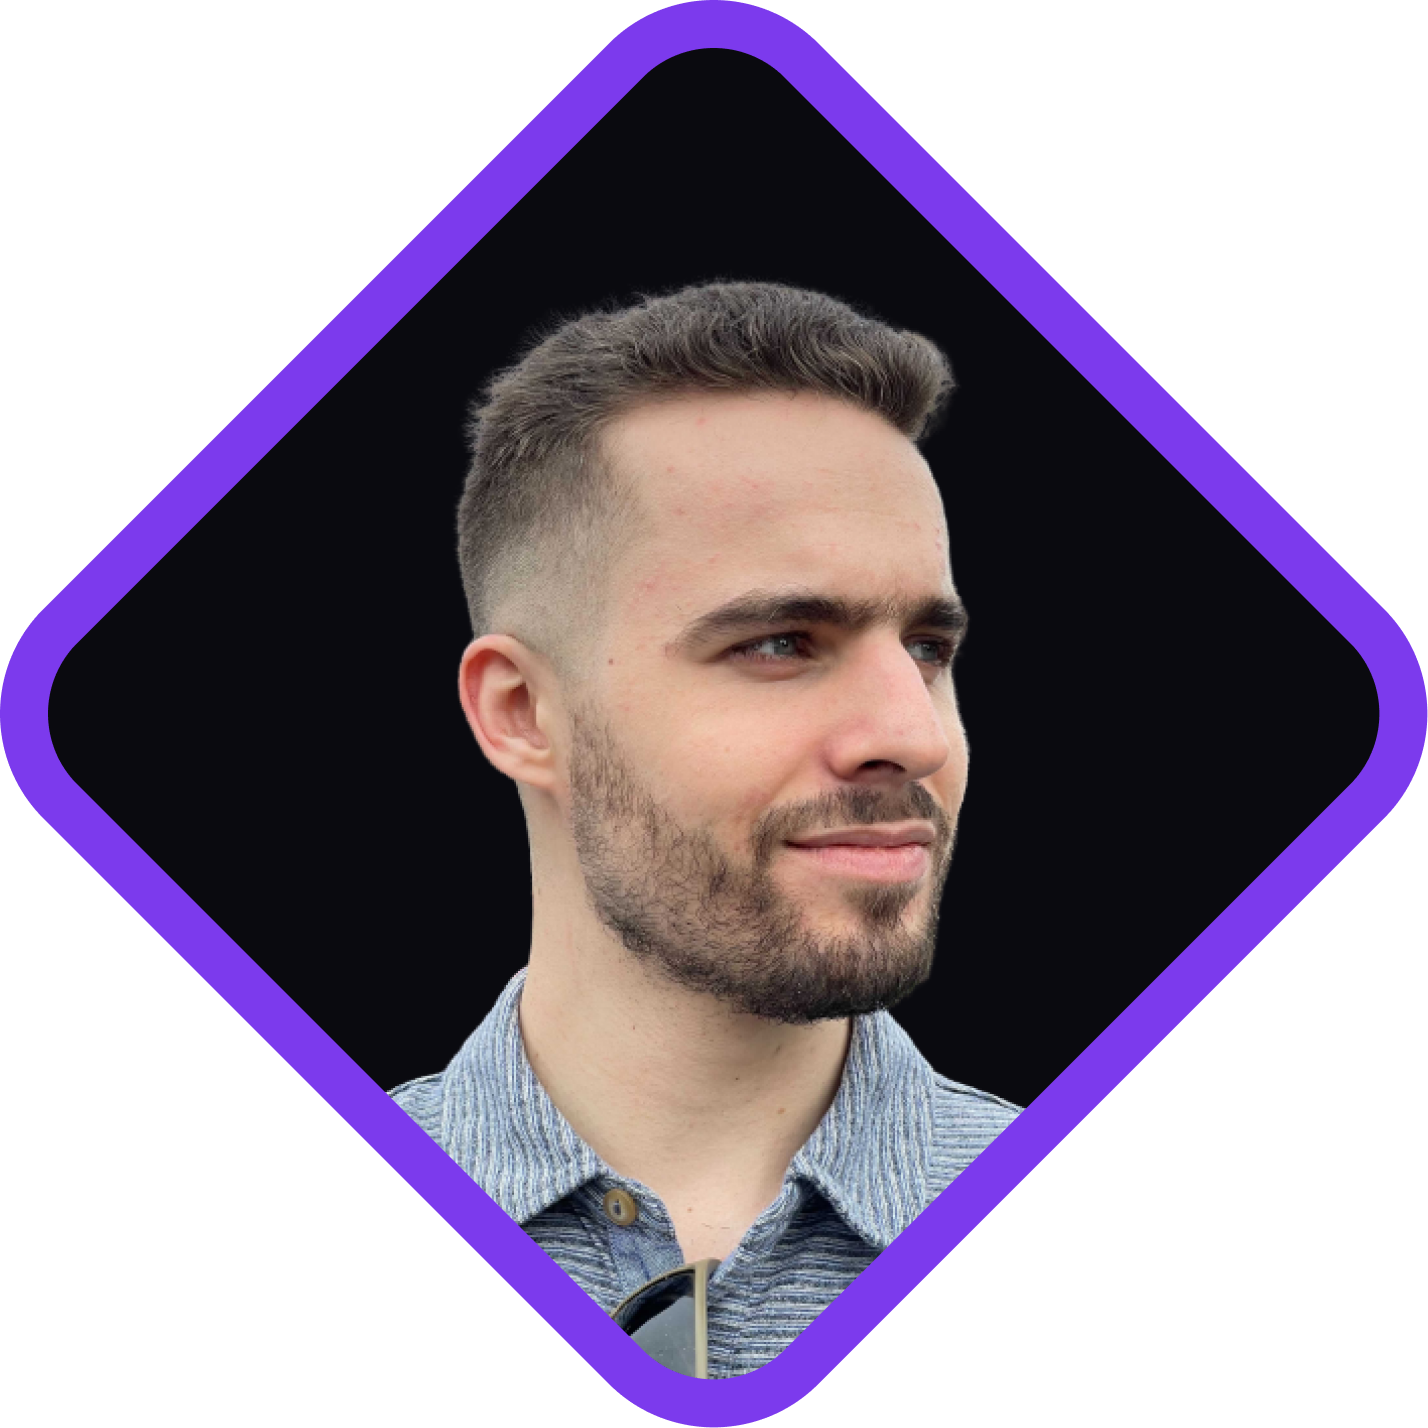
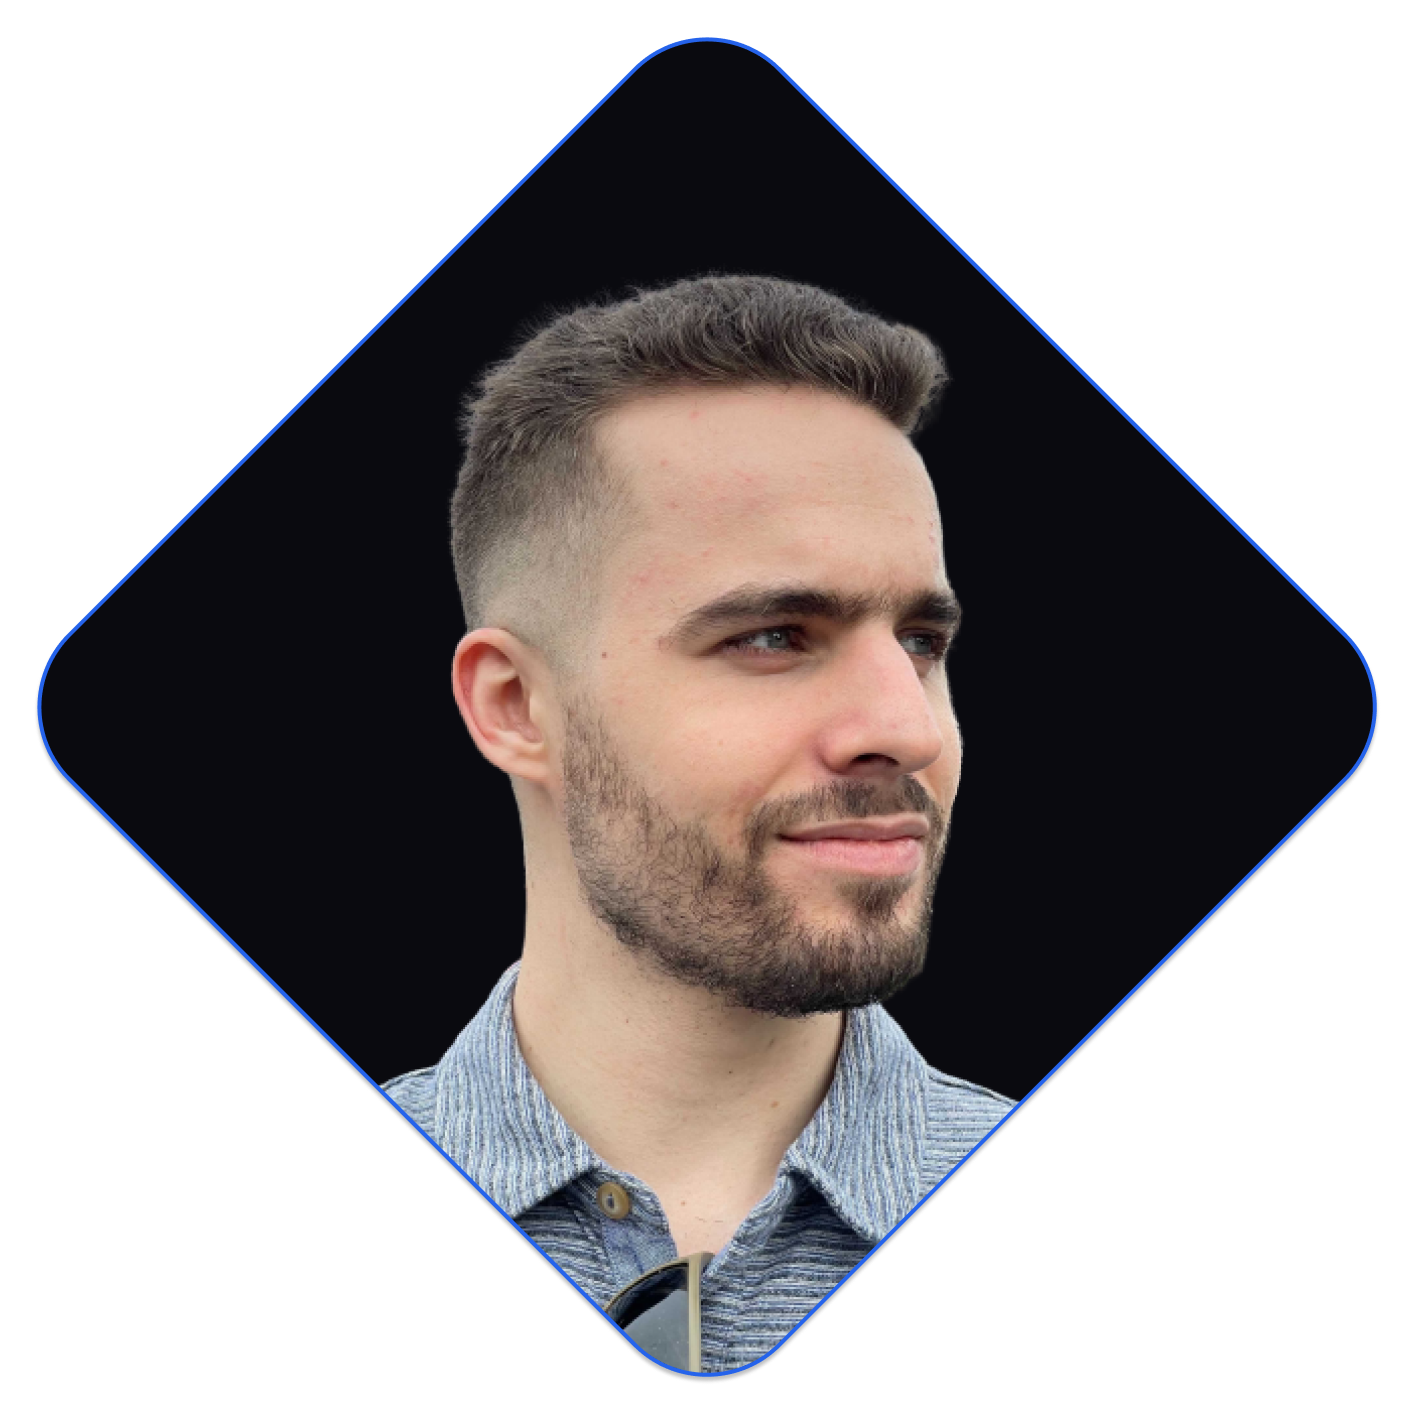
colorscheme

diff --git a/src/app/globals.css b/src/app/globals.css
@@ -1,19 +1,62 @@
 @import "tailwindcss";
 
+
+
+
+
+:root {
+  --background: #f8fafc;
+  --foreground: #0f172a;
+  --text: #64748b;
+  --blue: #2563eb;
+  --blue-hover: #1d4ed8;
+  --button-bg: #1d4ed8;
+  --button-hover: #1e40af;
+  --card-bg: #ffffff;
+  --card-border: rgba(37, 99, 235, 0.08);
+  --shadow: rgba(0, 0, 0, 0.08);
+  --shadow-hover: rgba(37, 99, 235, 0.2);
+  --card-shadow: 0 1px 3px rgba(0, 0, 0, 0.08), 0 4px 12px rgba(0, 0, 0, 0.04);
+  --nav-bg: rgba(248, 250, 252, 0.9);
+  --gradient-start: rgba(37, 99, 235, 0.05);
+  --gradient-end: rgba(59, 130, 246, 0.02);
+}
+
+.dark {
+  --background: #020617;
+  --foreground: #f1f5f9;
+  --text: #94a3b8;
+  --blue: #60a5fa;
+  --blue-hover: #93c5fd;
+  --button-bg: #2563eb;
+  --button-hover: #3b82f6;
+  --card-bg: #0f172a;
+  --card-border: rgba(96, 165, 250, 0.15);
+  --shadow: rgba(96, 165, 250, 0.1);
+  --shadow-hover: rgba(96, 165, 250, 0.25);
+  --card-shadow: none;
+  --nav-bg: rgba(2, 6, 23, 0.9);
+  --gradient-start: rgba(96, 165, 250, 0.1);
+  --gradient-end: rgba(59, 130, 246, 0.05);
+}
+
+
+
+
 /* =============================================================================
-   COLOR SCHEME: Modern Violet/Cyan (2024)
-   To revert to original colors, comment out this section and uncomment
-   the "ORIGINAL COLORS" section below
+   ACTIVE COLOR SCHEME
+   Copy your chosen scheme here (uncomment it above, then paste below)
    ============================================================================= */
 
 /* Light theme (default) */
+/*
 :root {
   --background: #fafafa;
   --foreground: #0f0f0f;
   --text: #525252;
   --blue: #7c3aed;
   --blue-hover: #6d28d9;
-  --button-bg: #6d28d9; /* Darker purple for buttons - better contrast with white text */
+  --button-bg: #6d28d9;
   --button-hover: #5b21b6;
   --card-bg: #ffffff;
   --card-border: rgba(124, 58, 237, 0.08);
@@ -26,59 +69,25 @@
 }
 
 /* Dark theme */
+/*
 .dark {
   --background: #0a0a0f;
   --foreground: #f5f5f5;
   --text: #a1a1aa;
   --blue: #a78bfa;
   --blue-hover: #c4b5fd;
-  --button-bg: #7c3aed; /* Slightly darker purple for dark mode buttons */
+  --button-bg: #7c3aed;
   --button-hover: #6d28d9;
-  --card-bg: #121218; /* Solid color - approx rgba(255,255,255,0.03) on #0a0a0f */
+  --card-bg: #121218;
   --card-border: rgba(167, 139, 250, 0.15);
   --shadow: rgba(167, 139, 250, 0.1);
   --shadow-hover: rgba(167, 139, 250, 0.25);
-  --card-shadow: none; /* Dark mode relies on border/glow, not shadow */
+  --card-shadow: none;
   --nav-bg: rgba(10, 10, 15, 0.9);
   --gradient-start: rgba(167, 139, 250, 0.1);
   --gradient-end: rgba(34, 211, 238, 0.05);
 }
-
-/* =============================================================================
-   ORIGINAL COLORS (uncomment to revert)
-   =============================================================================
-
-:root {
-  --background: #f5f5f5;
-  --foreground: #111111;
-  --text: #606060;
-  --blue: #1f6fd8;
-  --blue-hover: #1a5db8;
-  --card-bg: #ffffff;
-  --card-border: rgba(0, 0, 0, 0.08);
-  --shadow: rgba(0, 0, 0, 0.1);
-  --shadow-hover: rgba(31, 111, 216, 0.2);
-  --nav-bg: rgba(255, 255, 255, 0.9);
-  --gradient-start: rgba(31, 111, 216, 0.05);
-  --gradient-end: rgba(31, 111, 216, 0.02);
-}
-
-.dark {
-  --background: #0d1117;
-  --foreground: #e5e5e5;
-  --text: #bfd3e8;
-  --blue: #0093ee;
-  --blue-hover: #00a8ff;
-  --card-bg: rgba(255, 255, 255, 0.05);
-  --card-border: rgba(255, 255, 255, 0.1);
-  --shadow: rgba(0, 147, 238, 0.1);
-  --shadow-hover: rgba(0, 147, 238, 0.3);
-  --nav-bg: rgba(13, 17, 23, 0.9);
-  --gradient-start: rgba(0, 147, 238, 0.1);
-  --gradient-end: rgba(0, 147, 238, 0.02);
-}
-
-   ============================================================================= */
+  */
 
 @theme inline {
   --color-background: var(--background);

diff --git a/src/components/layout/Header.tsx b/src/components/layout/Header.tsx
@@ -69,7 +69,7 @@ export function Header() {
             animate={{ opacity: 1 }}
             transition={{ delay: 0.2 }}
           >
-            <Link href="/" className="flex items-center gap-0.5" aria-label="Home">
+            <Link href="/" className="logo-container flex items-center gap-0.5" aria-label="Home">
               {/* Stylized Q icon with </> inside */}
               <svg width="32" height="32" viewBox="0 0 40 40" fill="none" xmlns="http://www.w3.org/2000/svg" className="text-blue">
                 {/* Q shape - thinner stroke for more inner space */}
